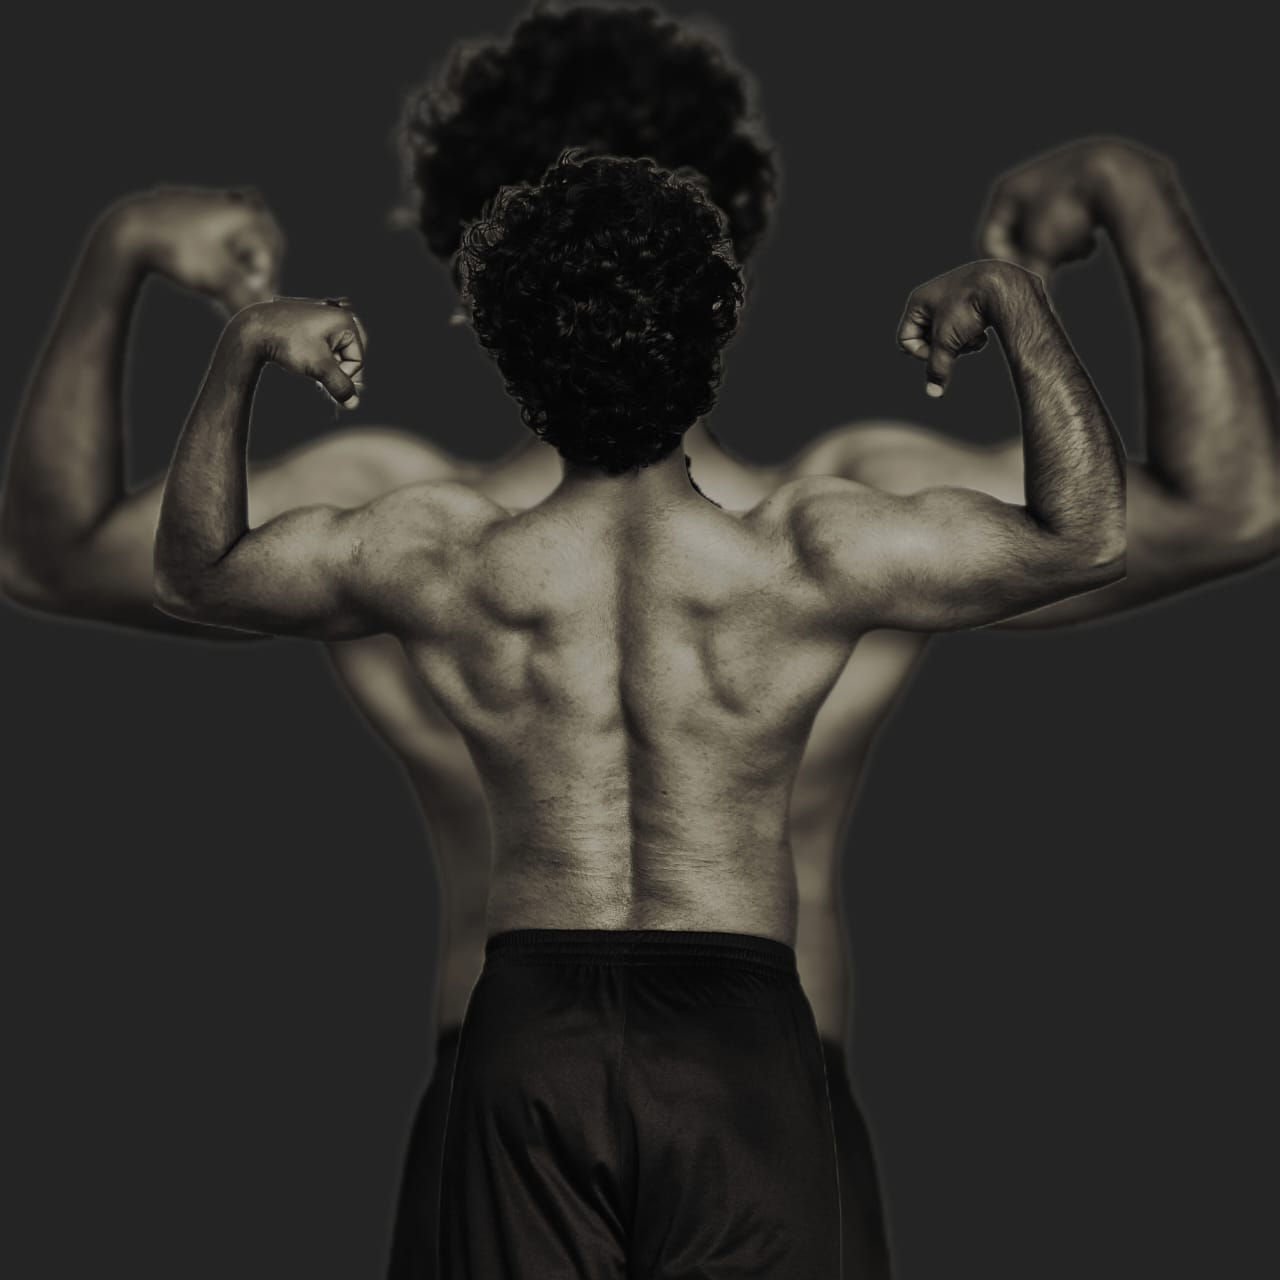
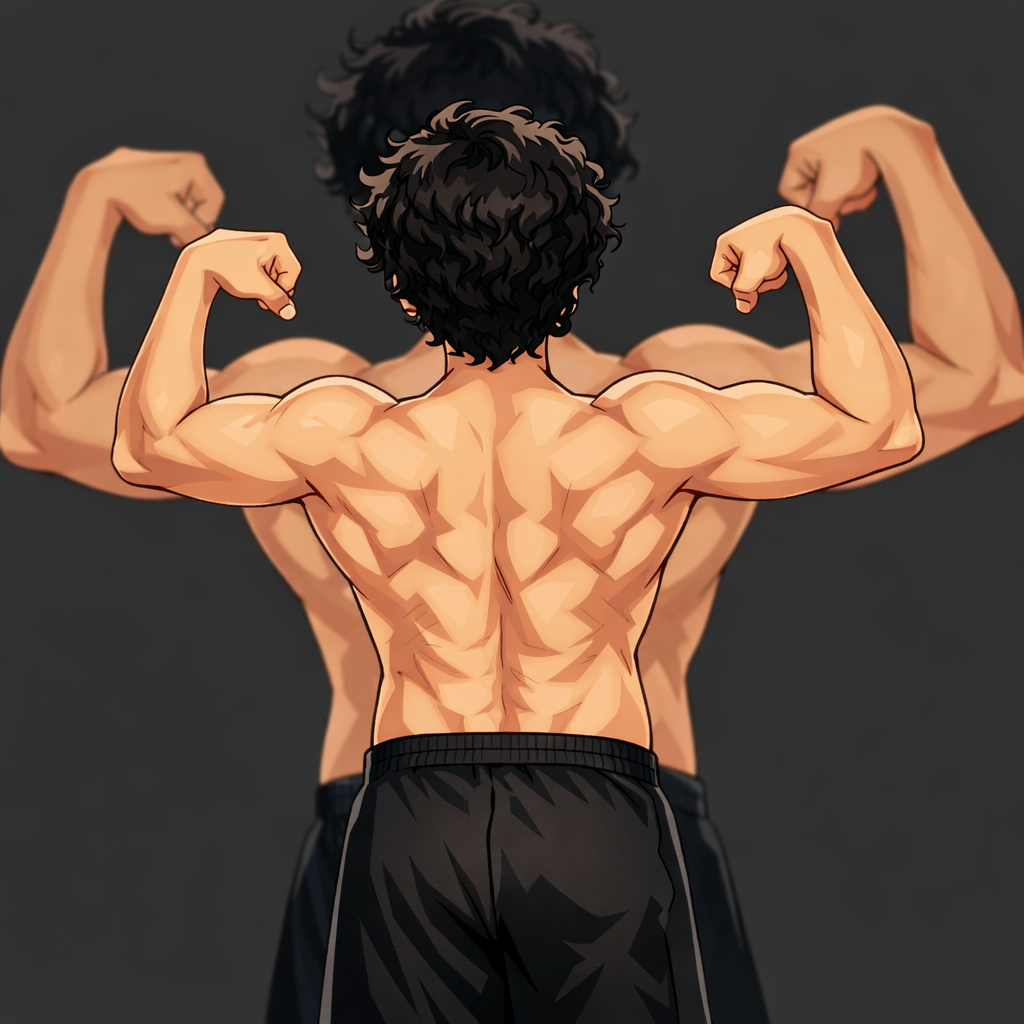
hero image change

diff --git a/frontend/js/script.js b/frontend/js/script.js
@@ -22,83 +22,78 @@ const io = new IntersectionObserver(
 );
 document.querySelectorAll(".reveal-up").forEach(el => io.observe(el));
 
-/* =====================================================
-   MODALS — DECLARED ONCE (IMPORTANT)
-===================================================== */
-const programModal = document.getElementById("modal");
+/* =================================================
+   PROGRAM DETAILS MODAL  (SAFE — LIKE OLD VERSION)
+================================================= */
+const modal = document.getElementById("modal");
+if (modal) {
+  const title = document.getElementById("modalTitle");
+  const meta = document.getElementById("modalMeta");
+
+  document.querySelectorAll(".program-details").forEach(btn => {
+    btn.addEventListener("click", () => {
+      const program = JSON.parse(
+        btn.closest("[data-program]").dataset.program
+      );
+
+      title.textContent = program.title;
+      meta.textContent = `${program.level} • ${program.weeks} weeks`;
+
+      modal.classList.add("show");
+      modal.setAttribute("aria-hidden", "false");
+    });
+  });
+
+  modal.addEventListener("click", e => {
+    if (
+      e.target.dataset.close === "modal" ||
+      e.target.classList.contains("modal-close")
+    ) {
+      modal.classList.remove("show");
+      modal.setAttribute("aria-hidden", "true");
+    }
+  });
+}
+
+/* =================================================
+   GO PRO MODAL
+================================================= */
 const paymentModal = document.getElementById("paymentModal");
-const eliteModal = document.getElementById("elitePaymentModal");
-
-const modalTitle = document.getElementById("modalTitle");
-const modalMeta = document.getElementById("modalMeta");
-
-/* ====== PROGRAM DETAILS MODAL ====== */
-document.querySelectorAll(".program-details").forEach(btn => {
+document.querySelectorAll(".go-pro-btn").forEach(btn => {
   btn.addEventListener("click", () => {
-    const card = btn.closest("[data-program]");
-    if (!card) return;
-
-    const program = JSON.parse(card.dataset.program);
-    modalTitle.textContent = program.title;
-    modalMeta.textContent = `${program.level} • ${program.weeks} weeks`;
-
-    programModal.style.display = "flex";
-    programModal.setAttribute("aria-hidden", "false");
+    paymentModal.classList.add("show");
+    paymentModal.setAttribute("aria-hidden", "false");
   });
 });
 
-programModal?.addEventListener("click", e => {
-  if (
-    e.target.dataset.close === "modal" ||
-    e.target.classList.contains("modal-close")
-  ) {
-    programModal.style.display = "none";
-    programModal.setAttribute("aria-hidden", "true");
+paymentModal?.addEventListener("click", e => {
+  if (e.target.dataset.close === "paymentModal") {
+    paymentModal.classList.remove("show");
+    paymentModal.setAttribute("aria-hidden", "true");
   }
 });
 
-/* ====== GO PRO MODAL ====== */
-document.querySelectorAll("button").forEach(btn => {
-  if (btn.textContent.trim() === "Go Pro") {
-    btn.addEventListener("click", () => {
-      paymentModal.style.display = "flex";
-      paymentModal.setAttribute("aria-hidden", "false");
-    });
-  }
+/* =================================================
+   ELITE MODAL
+================================================= */
+const eliteModal = document.getElementById("elitePaymentModal");
+document.querySelectorAll(".elite-btn").forEach(btn => {
+  btn.addEventListener("click", () => {
+    eliteModal.classList.add("show");
+    eliteModal.setAttribute("aria-hidden", "false");
+  });
 });
 
-paymentModal
-  ?.querySelectorAll("[data-close='paymentModal']")
-  .forEach(el =>
-    el.addEventListener("click", () => {
-      paymentModal.style.display = "none";
-      paymentModal.setAttribute("aria-hidden", "true");
-    })
-  );
-
-/* ====== ELITE MODAL ====== */
-document.querySelectorAll("button").forEach(btn => {
-  if (btn.textContent.trim() === "Join Elite") {
-    btn.addEventListener("click", () => {
-      eliteModal.style.display = "flex";
-      eliteModal.setAttribute("aria-hidden", "false");
-    });
+eliteModal?.addEventListener("click", e => {
+  if (e.target.dataset.close === "elitePaymentModal") {
+    eliteModal.classList.remove("show");
+    eliteModal.setAttribute("aria-hidden", "true");
   }
 });
-
-eliteModal
-  ?.querySelectorAll("[data-close='elitePaymentModal']")
-  .forEach(el =>
-    el.addEventListener("click", () => {
-      eliteModal.style.display = "none";
-      eliteModal.setAttribute("aria-hidden", "true");
-    })
-  );
 
 /* ====== Scroll to top ====== */
 const scrollTopBtn = document.getElementById("scrollTopBtn");
 window.addEventListener("scroll", () => {
-  if (!scrollTopBtn) return;
   scrollTopBtn.style.display =
     document.documentElement.scrollTop > 200 ? "block" : "none";
 });
@@ -106,7 +101,7 @@ scrollTopBtn?.addEventListener("click", () =>
   window.scrollTo({ top: 0, behavior: "smooth" })
 );
 
-/* ====== LOGIN STATE ====== */
+/* ====== Login state ====== */
 document.addEventListener("DOMContentLoaded", () => {
   const user = JSON.parse(localStorage.getItem("user"));
   const logoutBtn = document.getElementById("logoutBtn");

diff --git a/frontend/index.html b/frontend/index.html
@@ -115,7 +115,7 @@
                     <li>Advanced analytics</li>
                     <li>Exercise video demos</li>
                 </ul>
-                <button class="btn btn-primary">Go Pro</button>
+                <button class="btn btn-primary go-pro-btn">Go Pro</button>
             </div>
 
             <div class="price card reveal-up">
@@ -126,7 +126,7 @@
                     <li>Custom cycles</li>
                     <li>Priority support</li>
                 </ul>
-                <button class="btn btn-primary">Join Elite</button>
+                <button class="btn btn-primary elite-btn">Join Elite</button>
             </div>
         </div>
     </section>
@@ -160,8 +160,11 @@
         <div class="modal-card">
             <button class="modal-close" data-close="elitePaymentModal">×</button>
             <h3>Elite Membership</h3>
+            <p class="muted">Scan the QR code below to complete your payment:</p>
             <img src="assets/elite.png" style="max-width:200px;">
+            
         </div>
+        
     </div>
 
     <!-- JS -->
